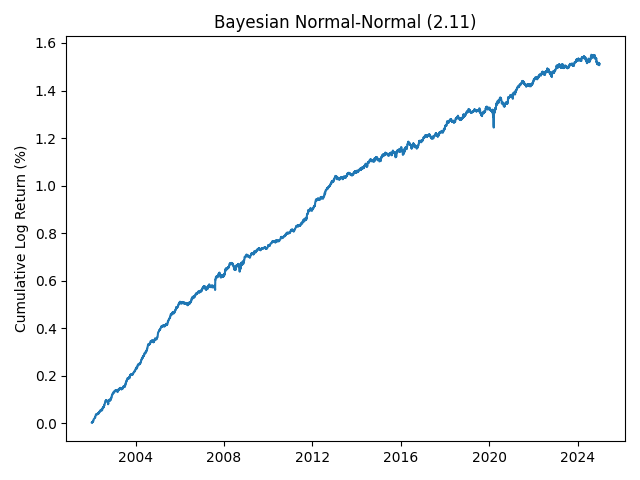
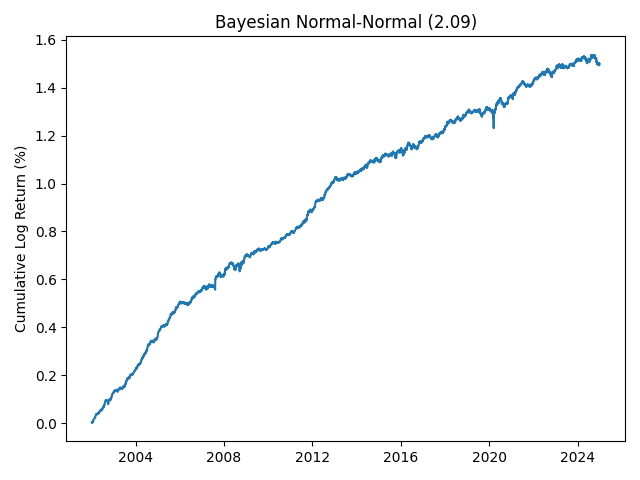
Changed to unit leverage instead of full investment.

diff --git a/experiments/bayesian_nn.py b/experiments/bayesian_nn.py
@@ -12,7 +12,7 @@ K = 3
 
 # Prior hyperparameters
 mu_0 = np.ones(K) / K
-n_0 = 1 # Pseudo observations
+n_0 = 252 # Pseudo observations
 daily_variance = 1 / 100
 Sigma_0 = (1.0 / n_0) * np.eye(K) * daily_variance
 
@@ -48,12 +48,10 @@ for t in range(WINDOW, len(returns_np)):
     Sigma_n = np.linalg.inv(Sigma_0_inv + n * Sigma_inv)
     mu_n = Sigma_n @ (Sigma_0_inv @ mu_0 + n * Sigma_inv @ x_bar)
 
-    print(Sigma - Sigma_0)
-
     weights_raw = np.linalg.solve(Sigma_n, mu_n)
 
     # Normalize
-    weights_normalized = weights_raw / weights_raw.sum()
+    weights_normalized = weights_raw / np.abs(weights_raw).sum()
 
     # Softmax
     exp_w = np.exp(weights_normalized - weights_normalized.max())

diff --git a/experiments/fama_macbeth.py b/experiments/fama_macbeth.py
@@ -99,6 +99,11 @@ weight_columns = [f'w_{name}' for name in signal_names]
 signal_weights = (
     gammas
     .with_columns(
+        g_momentum=pl.col('g_momentum').abs(),
+        g_reversal=pl.col('g_reversal').abs(),
+        g_bab=pl.col('g_bab').abs(),
+    )
+    .with_columns(
         g_norm_momentum=pl.col('g_momentum') / pl.sum_horizontal('g_momentum', 'g_reversal', 'g_bab'),
         g_norm_reversal=pl.col('g_reversal') / pl.sum_horizontal('g_momentum', 'g_reversal', 'g_bab'),
         g_norm_bab=pl.col('g_bab') / pl.sum_horizontal('g_momentum', 'g_reversal', 'g_bab'),

diff --git a/experiments/mve.py b/experiments/mve.py
@@ -39,7 +39,7 @@ for t in range(WINDOW, len(R_full)):
     weights_raw = np.linalg.solve(Sigma, mu)
 
     # Normalize
-    weights_normalized = weights_raw / weights_raw.sum()
+    weights_normalized = weights_raw / np.abs(weights_raw).sum()
 
     # Softmax (shift by max for numerical stability)
     exp_s = np.exp(weights_normalized - weights_normalized.max())

diff --git a/experiments/bayesian_niw.py b/experiments/bayesian_niw.py
@@ -57,7 +57,7 @@ for t in range(WINDOW, len(returns_np)):
     weights_raw = np.linalg.solve(Sigma_post, mu_n)
 
     # Normalize
-    weights_norm = weights_raw / weights_raw.sum()
+    weights_norm = weights_raw / np.abs(weights_raw).sum()
 
     # Softmax
     exp_w = np.exp(weights_norm - weights_norm.max())
